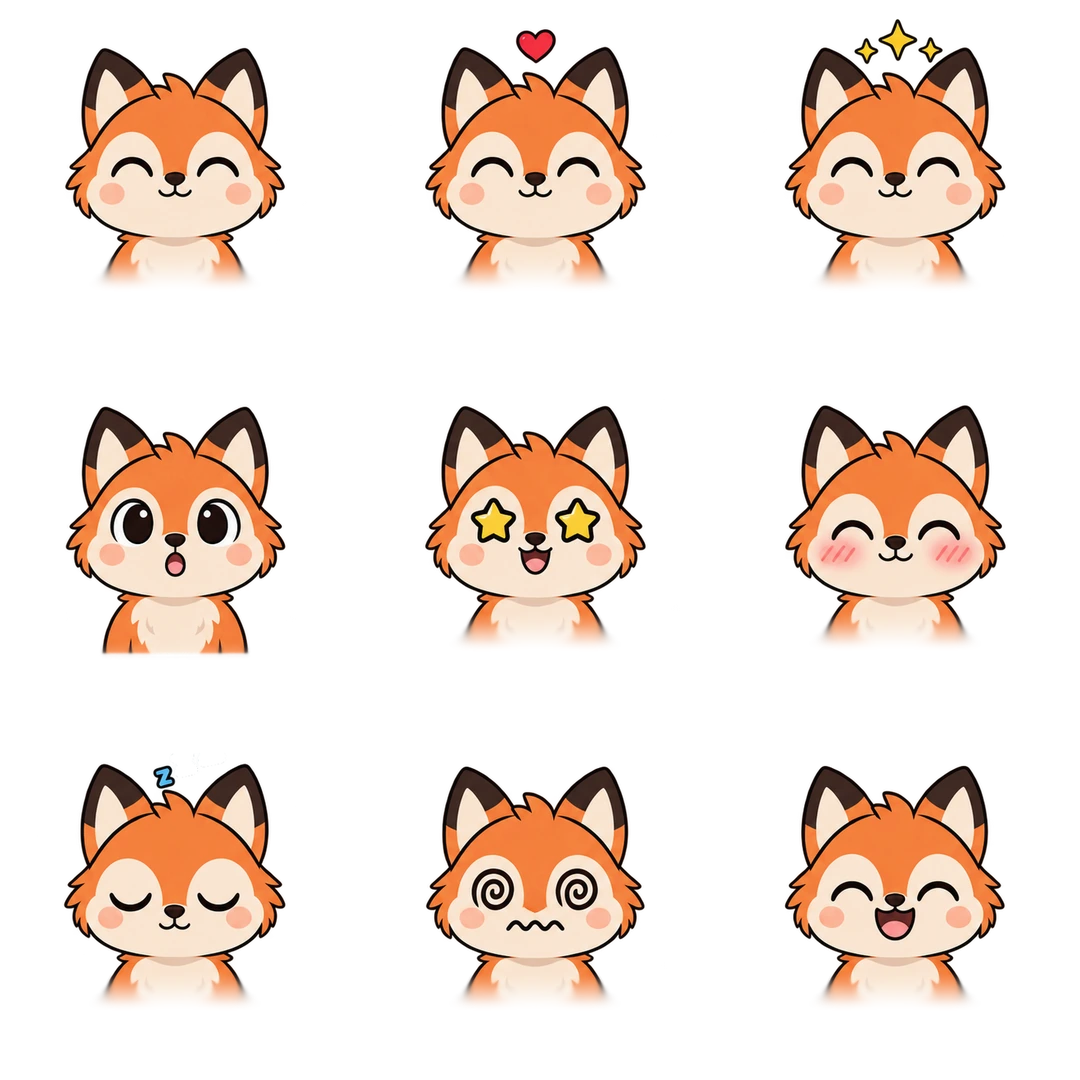
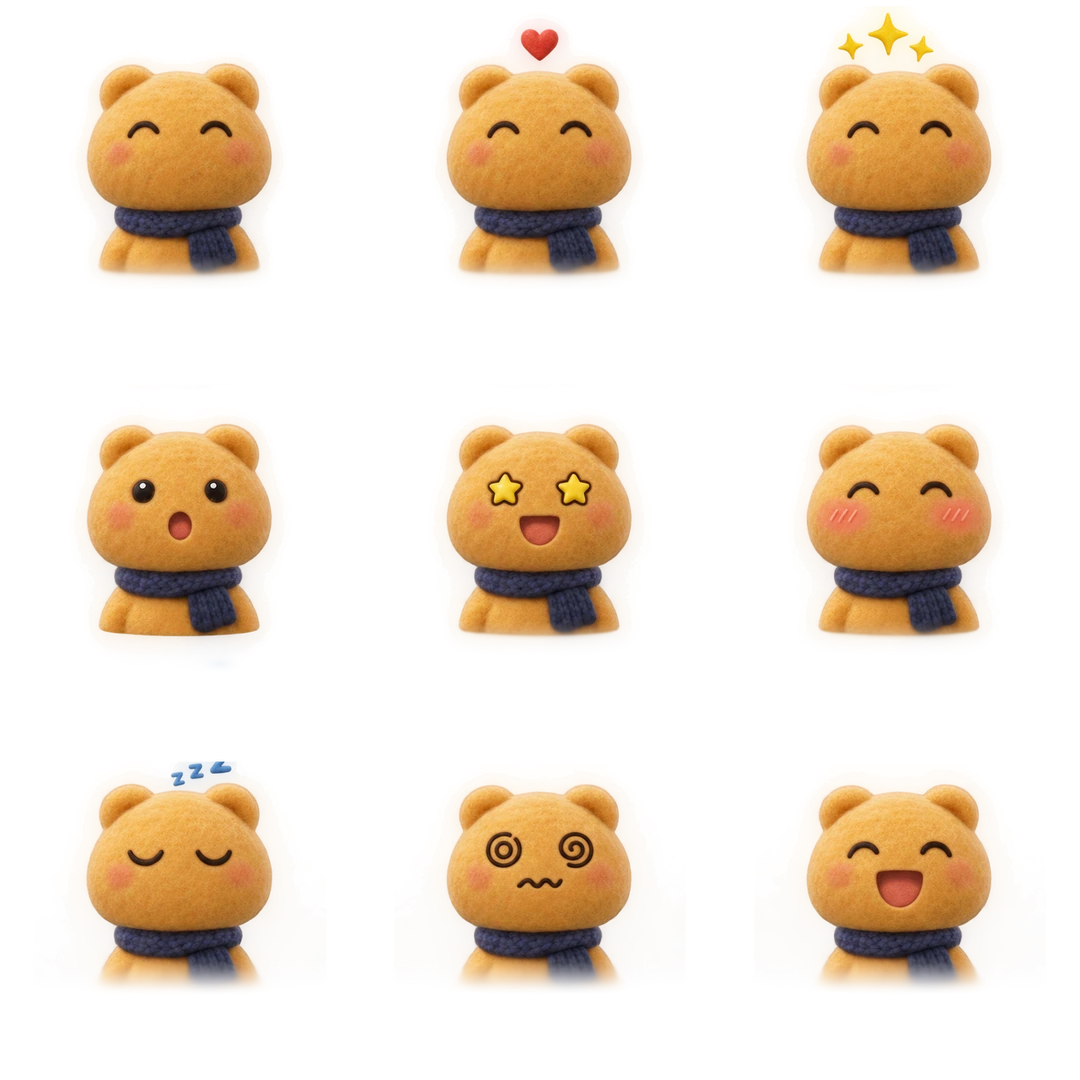
Draw an original plush keeper as the mascot
The keeper is a round felt plush with dot eyes and a navy scarf, drawn
for Gatehouse with the page-mascot skill: nine head turns that follow
the pointer and nine faces, built into aligned sheets by the skill's
own build, which measured no shift between them.

diff --git a/desk/templates/guard.html b/desk/templates/guard.html
@@ -1,4 +1,4 @@
-<button class="guard{{ ' posed' if guard_pose is defined and guard_pose else '' }}" type="button" style="--size: {{ guard_size }}px"{% if guard_pose is defined and guard_pose %} data-pose="{{ guard_pose }}"{% endif %} aria-label="The Gatehouse fox. Press it to say hello.">
+<button class="guard{{ ' posed' if guard_pose is defined and guard_pose else '' }}" type="button" style="--size: {{ guard_size }}px"{% if guard_pose is defined and guard_pose %} data-pose="{{ guard_pose }}"{% endif %} aria-label="The Gatehouse keeper. Press it to say hello.">
   <span class="guard-body" aria-hidden="true">
     <span class="guard-face" style="background-image: url('{{ url_for('static', path='mascot/guard-directions.webp') }}')"></span>
     <span class="guard-react" style="background-image: url('{{ url_for('static', path='mascot/guard-reactions.webp') }}')"></span>
